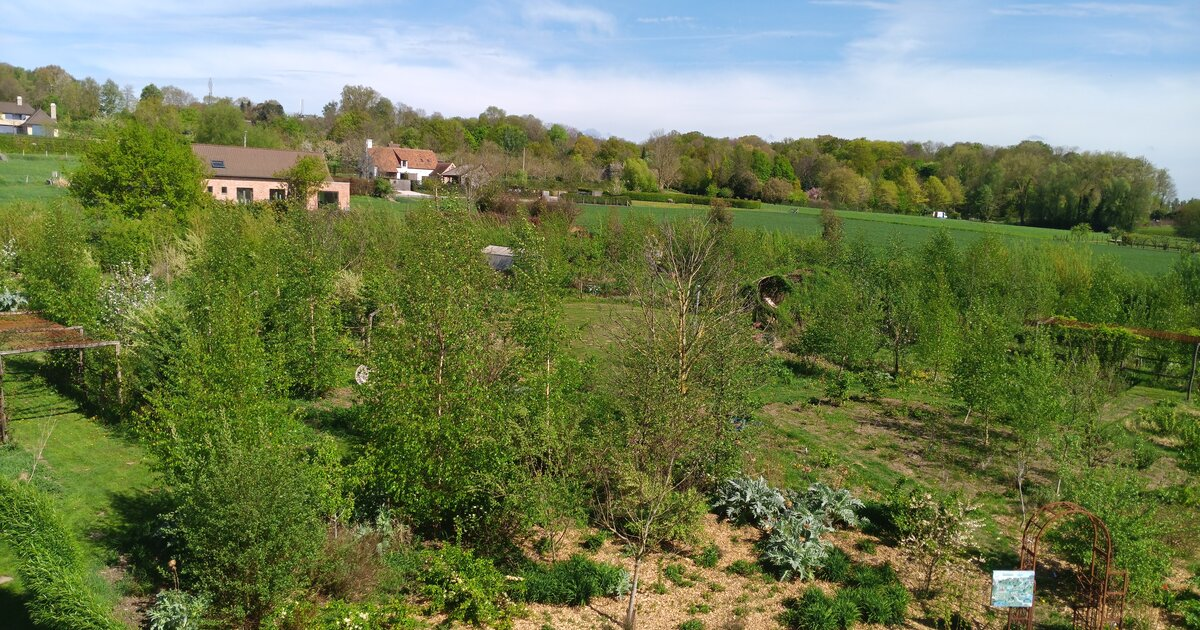
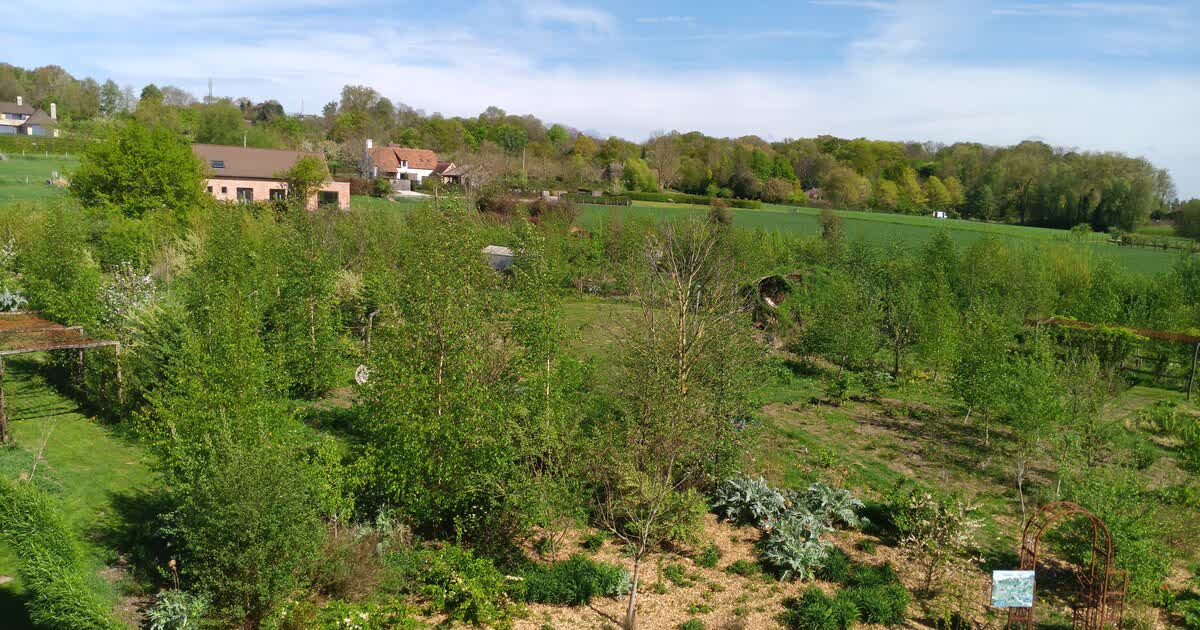
Security + SEO: CSP header, Permissions-Policy, contact FAQ schema, OG-image geoptimaliseerd
- Content-Security-Policy header toegevoegd aan Caddy (alle origins correct)
- Permissions-Policy: camera, mic, geo, payment etc. geblokkeerd
- Contact pagina: FAQPage JSON-LD in 4 talen (4 FAQ's elk)
- OG-image: 272KB → 149KB (-45%)
- Origineel og-image bewaard als og-image-original.jpg

diff --git a/public/de/contact.html b/public/de/contact.html
@@ -36,6 +36,9 @@
 <script type="application/ld+json">
 {"@context":"https://schema.org","@type":"BreadcrumbList","itemListElement":[{"@type":"ListItem","position":1,"name":"Home","item":"https://walbrugge.be/"},{"@type":"ListItem","position":2,"name":"De","item":"https://walbrugge.be/de"},{"@type":"ListItem","position":3,"name":"Kontakt","item":"https://walbrugge.be/de/contact"}]}
 </script>
+<script type="application/ld+json">
+{"@context": "https://schema.org", "@type": "FAQPage", "mainEntity": [{"@type": "Question", "name": "Was ist die Adresse von Domein Walbrugge?", "acceptedAnswer": {"@type": "Answer", "text": "Walbrugge 36, 8573 Anzegem (Tiegem), Belgien. An der Grenze der Flämischen Ardennen und Südwestflanderns, 15 Minuten von Kortrijk."}}, {"@type": "Question", "name": "Wie kann ich Domein Walbrugge kontaktieren?", "acceptedAnswer": {"@type": "Answer", "text": "Per Telefon unter +32 485 88 77 23, per E-Mail an info@walbrugge.be, oder über WhatsApp und Facebook Messenger. Sie können auch das Angebotsformular auf der Website ausfüllen."}}, {"@type": "Question", "name": "Gibt es Parkplätze auf Domein Walbrugge?", "acceptedAnswer": {"@type": "Answer", "text": "Ja, kostenlose Parkplätze für bis zu 40 Autos. 6 Ladepunkte für Elektrofahrzeuge sind ebenfalls verfügbar."}}, {"@type": "Question", "name": "Kann man Domein Walbrugge besichtigen?", "acceptedAnswer": {"@type": "Answer", "text": "Ja, Besichtigungen sind nach Vereinbarung möglich. Kontaktieren Sie uns telefonisch, per E-Mail oder über WhatsApp."}}]}
+</script>
 <!-- Cookie Consent + LinkedIn (loads after consent) -->
 <script src="/assets/js/cookie-consent.js" defer></script>
 </head>

diff --git a/public/fr/contact.html b/public/fr/contact.html
@@ -36,6 +36,9 @@
 <script type="application/ld+json">
 {"@context":"https://schema.org","@type":"BreadcrumbList","itemListElement":[{"@type":"ListItem","position":1,"name":"Home","item":"https://walbrugge.be/"},{"@type":"ListItem","position":2,"name":"Fr","item":"https://walbrugge.be/fr"},{"@type":"ListItem","position":3,"name":"Contact","item":"https://walbrugge.be/fr/contact"}]}
 </script>
+<script type="application/ld+json">
+{"@context": "https://schema.org", "@type": "FAQPage", "mainEntity": [{"@type": "Question", "name": "Quelle est l'adresse du domein Walbrugge ?", "acceptedAnswer": {"@type": "Answer", "text": "Walbrugge 36, 8573 Anzegem (Tiegem), Belgique. À la lisière des Ardennes flamandes et du sud-ouest de la Flandre, à 15 minutes de Courtrai."}}, {"@type": "Question", "name": "Comment contacter le domein Walbrugge ?", "acceptedAnswer": {"@type": "Answer", "text": "Par téléphone au +32 485 88 77 23, par e-mail à info@walbrugge.be, ou via WhatsApp et Facebook Messenger. Vous pouvez également remplir le formulaire de devis sur le site."}}, {"@type": "Question", "name": "Y a-t-il un parking au domein Walbrugge ?", "acceptedAnswer": {"@type": "Answer", "text": "Oui, parking gratuit pour 40 voitures. 6 bornes de recharge pour véhicules électriques sont également disponibles."}}, {"@type": "Question", "name": "Peut-on visiter le domein Walbrugge ?", "acceptedAnswer": {"@type": "Answer", "text": "Oui, les visites sont possibles sur rendez-vous. Contactez-nous par téléphone, e-mail ou WhatsApp."}}]}
+</script>
 <!-- Cookie Consent + LinkedIn (loads after consent) -->
 <script src="/assets/js/cookie-consent.js" defer></script>
 </head>

diff --git a/public/en/contact.html b/public/en/contact.html
@@ -36,6 +36,9 @@
 <script type="application/ld+json">
 {"@context":"https://schema.org","@type":"BreadcrumbList","itemListElement":[{"@type":"ListItem","position":1,"name":"Home","item":"https://walbrugge.be/"},{"@type":"ListItem","position":2,"name":"En","item":"https://walbrugge.be/en"},{"@type":"ListItem","position":3,"name":"Contact","item":"https://walbrugge.be/en/contact"}]}
 </script>
+<script type="application/ld+json">
+{"@context": "https://schema.org", "@type": "FAQPage", "mainEntity": [{"@type": "Question", "name": "What is the address of domein Walbrugge?", "acceptedAnswer": {"@type": "Answer", "text": "Walbrugge 36, 8573 Anzegem (Tiegem), Belgium. On the border of the Flemish Ardennes and south-west Flanders, 15 minutes from Kortrijk."}}, {"@type": "Question", "name": "How can I contact domein Walbrugge?", "acceptedAnswer": {"@type": "Answer", "text": "By phone at +32 485 88 77 23, by email at info@walbrugge.be, or via WhatsApp and Facebook Messenger. You can also fill in the quote form on the website."}}, {"@type": "Question", "name": "Is there parking at domein Walbrugge?", "acceptedAnswer": {"@type": "Answer", "text": "Yes, free parking for up to 40 cars. 6 EV charging points are also available."}}, {"@type": "Question", "name": "Can I visit domein Walbrugge for a tour?", "acceptedAnswer": {"@type": "Answer", "text": "Yes, visits are possible by appointment. Contact us by phone, email or WhatsApp to arrange a time."}}]}
+</script>
 <!-- Cookie Consent + LinkedIn (loads after consent) -->
 <script src="/assets/js/cookie-consent.js" defer></script>
 </head>

diff --git a/public/contact.html b/public/contact.html
@@ -36,6 +36,9 @@
 <script type="application/ld+json">
 {"@context":"https://schema.org","@type":"BreadcrumbList","itemListElement":[{"@type":"ListItem","position":1,"name":"Home","item":"https://walbrugge.be/"},{"@type":"ListItem","position":2,"name":"Contact","item":"https://walbrugge.be/contact"}]}
 </script>
+<script type="application/ld+json">
+{"@context":"https://schema.org","@type":"FAQPage","mainEntity":[{"@type":"Question","name":"Wat is het adres van domein Walbrugge?","acceptedAnswer":{"@type":"Answer","text":"Walbrugge 36, 8573 Anzegem (Tiegem), Belgi\u00eb. Op de grens van de Vlaamse Ardennen en Zuid-West-Vlaanderen, 15 minuten van Kortrijk."}},{"@type":"Question","name":"Hoe kan ik domein Walbrugge bereiken?","acceptedAnswer":{"@type":"Answer","text":"Via telefoon op +32 485 88 77 23, via email op info@walbrugge.be, of via WhatsApp en Facebook Messenger. U kunt ook het offerteformulier invullen op de website."}},{"@type":"Question","name":"Is er parking op domein Walbrugge?","acceptedAnswer":{"@type":"Answer","text":"Ja, er is gratis parking voor tot 40 wagens. Er zijn ook 6 laadpalen beschikbaar voor elektrische voertuigen."}},{"@type":"Question","name":"Kan ik domein Walbrugge bezoeken voor een rondleiding?","acceptedAnswer":{"@type":"Answer","text":"Ja, bezichtigingen zijn mogelijk op afspraak. Neem contact op via telefoon, email of WhatsApp om een moment te plannen."}}]}
+</script>
 <!-- Cookie Consent + LinkedIn (loads after consent) -->
 <script src="/assets/js/cookie-consent.js" defer></script>
 </head>
